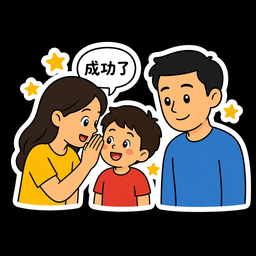
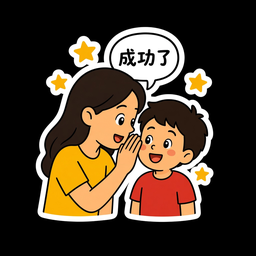
[Cursor] habit: whisper no-dad + toe→躺卧踩单车 (stamp 20261016d)
Redraw img-ca-whisper-ok (mom+child only) and img-ca-toe-wiggle
as lying bicycle pedaling; update celebration-actions copy; bump cache.

diff --git a/mobile/ios/App/App/public/local/habit-seed.js b/mobile/ios/App/App/public/local/habit-seed.js
@@ -3,7 +3,7 @@
   "use strict";
   global.MyTimeTreeHabitSeed = {
   "version": 4,
-  "generated_at": "2026-10-16T02:59:36.240Z",
+  "generated_at": "2026-10-16T03:40:32.685Z",
   "templates": [
     {
       "slug": "brush_teeth",
@@ -1185,7 +1185,7 @@
     {
       "id": "ca_whisper_ok",
       "title": "贴耳轻说「成功了」",
-      "body": "贴近耳边轻声说「成功了」",
+      "body": "妈妈贴近孩子耳边轻声说「成功了」（画面无爸爸）",
       "image_key": "img-ca-whisper-ok",
       "categories": [],
       "env_tags": [
@@ -1232,8 +1232,8 @@
     },
     {
       "id": "ca_toe_wiggle",
-      "title": "躺着抬起脚敲敲床",
-      "body": "人躺着，抬起脚，用脚敲敲床面（五根脚趾清晰）",
+      "title": "躺卧踩单车",
+      "body": "人躺着，双腿在空中交替做踩单车动作",
       "image_key": "img-ca-toe-wiggle",
       "categories": [],
       "env_tags": [
@@ -1588,7 +1588,7 @@
     {
       "id": "ca_whisper_ok",
       "title": "贴耳轻说「成功了」",
-      "body": "贴近耳边轻声说「成功了」",
+      "body": "妈妈贴近孩子耳边轻声说「成功了」（画面无爸爸）",
       "image_key": "img-ca-whisper-ok",
       "env_tags": [
         "quiet_bed",
@@ -1631,8 +1631,8 @@
     },
     {
       "id": "ca_toe_wiggle",
-      "title": "躺着抬起脚敲敲床",
-      "body": "人躺着，抬起脚，用脚敲敲床面（五根脚趾清晰）",
+      "title": "躺卧踩单车",
+      "body": "人躺着，双腿在空中交替做踩单车动作",
       "image_key": "img-ca-toe-wiggle",
       "env_tags": [
         "quiet_bed"

diff --git a/mobile/www-src/local/habit-seed.js b/mobile/www-src/local/habit-seed.js
@@ -3,7 +3,7 @@
   "use strict";
   global.MyTimeTreeHabitSeed = {
   "version": 4,
-  "generated_at": "2026-10-16T02:59:38.228Z",
+  "generated_at": "2026-10-16T03:40:35.734Z",
   "templates": [
     {
       "slug": "brush_teeth",
@@ -1185,7 +1185,7 @@
     {
       "id": "ca_whisper_ok",
       "title": "贴耳轻说「成功了」",
-      "body": "贴近耳边轻声说「成功了」",
+      "body": "妈妈贴近孩子耳边轻声说「成功了」（画面无爸爸）",
       "image_key": "img-ca-whisper-ok",
       "categories": [],
       "env_tags": [
@@ -1232,8 +1232,8 @@
     },
     {
       "id": "ca_toe_wiggle",
-      "title": "躺着抬起脚敲敲床",
-      "body": "人躺着，抬起脚，用脚敲敲床面（五根脚趾清晰）",
+      "title": "躺卧踩单车",
+      "body": "人躺着，双腿在空中交替做踩单车动作",
       "image_key": "img-ca-toe-wiggle",
       "categories": [],
       "env_tags": [
@@ -1588,7 +1588,7 @@
     {
       "id": "ca_whisper_ok",
       "title": "贴耳轻说「成功了」",
-      "body": "贴近耳边轻声说「成功了」",
+      "body": "妈妈贴近孩子耳边轻声说「成功了」（画面无爸爸）",
       "image_key": "img-ca-whisper-ok",
       "env_tags": [
         "quiet_bed",
@@ -1631,8 +1631,8 @@
     },
     {
       "id": "ca_toe_wiggle",
-      "title": "躺着抬起脚敲敲床",
-      "body": "人躺着，抬起脚，用脚敲敲床面（五根脚趾清晰）",
+      "title": "躺卧踩单车",
+      "body": "人躺着，双腿在空中交替做踩单车动作",
       "image_key": "img-ca-toe-wiggle",
       "env_tags": [
         "quiet_bed"

diff --git a/mobile/ios/App/App/public/index.html b/mobile/ios/App/App/public/index.html
@@ -2,7 +2,7 @@
 <html lang="zh-CN">
 <head>
   <meta name="mytimetree-mode" content="local-capacitor" />
-  <meta name="mytimetree-web-build" content="20261016c" />
+  <meta name="mytimetree-web-build" content="20261016d" />
   <meta charset="UTF-8" />
   <meta name="viewport" content="width=device-width, initial-scale=1, maximum-scale=1, user-scalable=no, viewport-fit=cover" />
   <title>MyTimeTree</title>
@@ -328,14 +328,14 @@
   </div>
 
     <script src="./local/sql-wasm.js"></script>
-  <script src="./local/db.js?v=20261016c"></script>
-  <script src="./local/habit-seed.js?v=20261016c"></script>
-  <script src="./local/store.js?v=20261016c"></script>
-  <script src="./local/habits.js?v=20261016c"></script>
-  <script src="./local/bridge.js?v=20261016c"></script>
-  <script src="./local/lock.js?v=20261016c"></script>
+  <script src="./local/db.js?v=20261016d"></script>
+  <script src="./local/habit-seed.js?v=20261016d"></script>
+  <script src="./local/store.js?v=20261016d"></script>
+  <script src="./local/habits.js?v=20261016d"></script>
+  <script src="./local/bridge.js?v=20261016d"></script>
+  <script src="./local/lock.js?v=20261016d"></script>
   <script src="./local/html2canvas.min.js"></script>
-  <script src="./local/share.js?v=20261016c"></script>
-  <script src="./app.js?v=20261016c"></script>
+  <script src="./local/share.js?v=20261016d"></script>
+  <script src="./app.js?v=20261016d"></script>
 </body>
 </html>

diff --git a/src/mytimetree/static/portal/app.js b/src/mytimetree/static/portal/app.js
@@ -53,7 +53,7 @@
     bird: `/static/portal/ornaments/bird.png?v=${ASSET_V}`,
   };
 
-  const HABIT_MEDIA_V = "20261016c";
+  const HABIT_MEDIA_V = "20261016d";
   // Tip: bright star (icon-tip-seed path overwritten; icon-tip-star alias also shipped)
   const HABIT_TIP_ICON = `/static/portal/habit/icon-tip-star.png?v=${HABIT_MEDIA_V}`;
   const HABIT_TIP_ICON_2X = `/static/portal/habit/icon-tip-star@2x.png?v=${HABIT_MEDIA_V}`;

diff --git a/mobile/ios/App/App/public/app.js b/mobile/ios/App/App/public/app.js
@@ -53,7 +53,7 @@
     bird: `./ornaments/bird.png?v=${ASSET_V}`,
   };
 
-  const HABIT_MEDIA_V = "20261016c";
+  const HABIT_MEDIA_V = "20261016d";
   // Tip: bright star (icon-tip-seed path overwritten; icon-tip-star alias also shipped)
   const HABIT_TIP_ICON = `./habit/icon-tip-star.png?v=${HABIT_MEDIA_V}`;
   const HABIT_TIP_ICON_2X = `./habit/icon-tip-star@2x.png?v=${HABIT_MEDIA_V}`;

diff --git a/docs/v2/content/celebration-actions.md b/docs/v2/content/celebration-actions.md
@@ -35,11 +35,11 @@
 | ca_chair_shimmy | 坐着晃肩 | 坐着左右晃晃肩膀两下 | seated | img-ca-chair-shimmy | 1 |
 | ca_pencil_twirl | 笔转庆祝 | 笔或手指转一小圈，说「收工」 | seated | img-ca-pencil-twirl | 1 |
 | ca_silent_clap | 无声鼓掌 | 双手轻轻合两下，不出大声 | quiet_bed,seated,any | img-ca-silent-clap | 1 |
-| ca_whisper_ok | 贴耳轻说「成功了」 | 贴近耳边轻声说「成功了」 | quiet_bed,seated,any | img-ca-whisper-ok | 1 |
+| ca_whisper_ok | 贴耳轻说「成功了」 | 妈妈贴近孩子耳边轻声说「成功了」（画面无爸爸） | quiet_bed,seated,any | img-ca-whisper-ok | 1 |
 | ca_quiet_heart | 胸口比心 | 双手在胸口比心，停一秒 | quiet_bed,seated,any | img-ca-quiet-heart | 1 |
 | ca_pillow_bump | 碰枕头 | 轻轻碰一下枕头，宣布充电完成 | quiet_bed | img-ca-pillow-bump | 1 |
 | ca_blanket_squeeze | 抱抱被子 | 把被子搂紧一下再放松 | quiet_bed | img-ca-blanket-squeeze | 1 |
-| ca_toe_wiggle | 躺着抬起脚敲敲床 | 人躺着，抬起脚，用脚敲敲床面（五根脚趾清晰） | quiet_bed | img-ca-toe-wiggle | 1 |
+| ca_toe_wiggle | 躺卧踩单车 | 人躺着，双腿在空中交替做踩单车动作 | quiet_bed | img-ca-toe-wiggle | 1 |
 | ca_bed_shoulder | 床上轻碰肩 | 躺/坐在床上轻轻碰一下肩 | quiet_bed | img-ca-bed-shoulder | 1 |
 | ca_outdoor_spin | 户外转一圈 | 在户外原地转一小圈 | outdoor | img-ca-outdoor-spin | 1 |
 | ca_nature_point | 指一下风景 | 指一下树或天空，说「看见了」 | outdoor,any | img-ca-nature-point | 1 |
